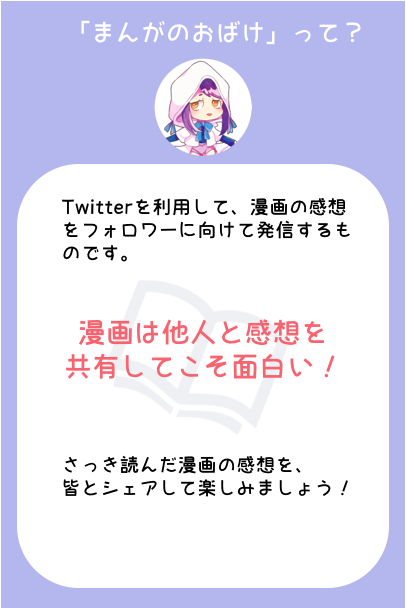
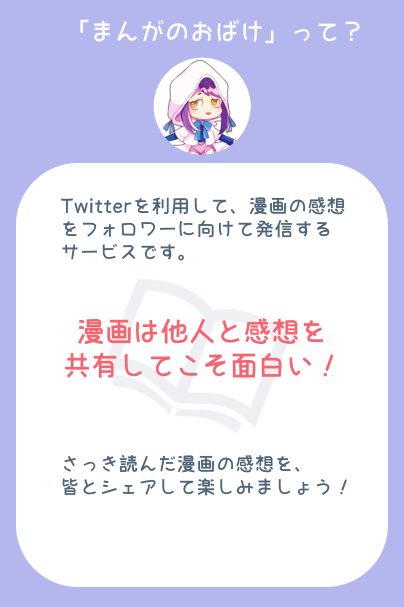
画像と軽微なバグを修正

diff --git a/app/frontend/stylesheets/modules/_modal.scss b/app/frontend/stylesheets/modules/_modal.scss
@@ -21,6 +21,7 @@
       max-width: 320px;
       background-color: #fff;
       padding: 10px;
+      margin: 30px 0;
     }
 
     &-field {

diff --git a/app/helpers/application_helper.rb b/app/helpers/application_helper.rb
@@ -1,8 +1,8 @@
 module ApplicationHelper
   def default_meta_tags
     {
-      site: 'まんがのおばけ',
       title: 'まんがのおばけ',
+      site: '漫画感想シェアサービス',
       reverse: true,
       charset: 'utf-8',
       description: '漫画の感想をフォロワーに向けて発信するサービスです。漫画は他人と感想を共有してこそ面白い！',
@@ -14,7 +14,7 @@ module ApplicationHelper
       #   { href: image_url('icon.jpg'), rel: 'apple-touch-icon', sizes: '180x180', type: 'image/jpg' },
       ],
       og: {
-        site_name: 'まんがのおばけ',
+        site_name: '漫画感想シェアサービス',
         title: 'まんがのおばけ',
         description: '漫画の感想をフォロワーに向けて発信するサービスです。漫画は他人と感想を共有してこそ面白い！',
         type: 'website',
